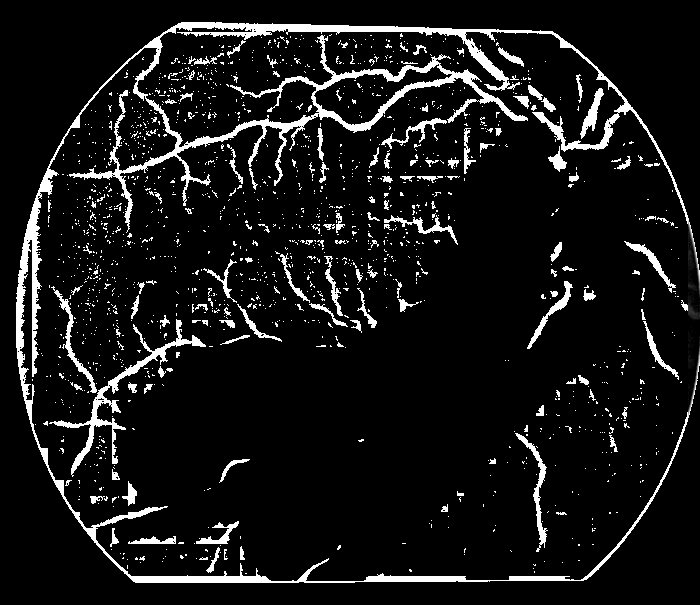
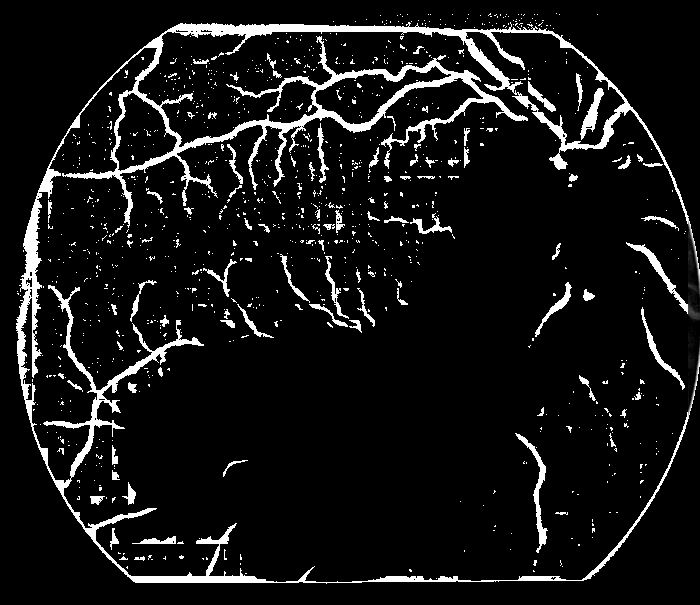
Finally version

diff --git a/image_processing.py b/image_processing.py
@@ -1,39 +1,21 @@
 import cv2
 import numpy as np
-import sklearn as sk
 
 
 def image_processing(image):
     img_gray = cv2.cvtColor(image, cv2.COLOR_BGR2GRAY)
-    img = np.copy(image[:, :, 1])
-    # image = cv2.Laplacian(image, cv2.CV_64F)
-    # image = cv2.Sobel(image, cv2.CV_64F, 1, 1, ksize=5)
-    # img = cv2.normalize(image, image, alpha=0, beta=255, norm_type=cv2.NORM_MINMAX)
-    '''for i in range(len(image)):
-        for j in range(len(image[0])):
-            if image[i][j] < (np.max(image) - np.min(image)):
-                image[i][j] = 0
-            else:
-                image[i][j] = 255
-    print(image)'''
     for i in range(len(img_gray)):
         for j in range(len(img_gray[0])):
             if img_gray[i][j] < 35:
                 img_gray[i][j] = 255
 
-    # img = cv2.bitwise_not(img)
-    # image = cv2.Laplacian(image, cv2.CV_64F)
-
     MIN = 48
     MAX = 140
-
-    # img_gray = (img_gray > 100) * 255
 
     norm = ((img_gray - MIN) / (MAX - MIN)) * 255.0
     norm[norm > 255] = 255.0
     norm[norm < 0] = 0.0
 
-    ''''''
     r = 16
     for i in range(0, len(norm) - r, r):
         for j in range(0, len(norm[i]) - r, r):
@@ -41,25 +23,8 @@ def image_processing(image):
             mean = np.median(matrix) * 0.87
             matrix[matrix < mean] = 0.0
             matrix[matrix > mean] = 255.0
-    ''''''
-
-    # norm[norm > 100] = 0.0
-    # norm[norm > 0] = 255.0
 
     norm = np.abs(norm - 255)
-
-    # norm = cv2.Sobel(norm, cv2.CV_64F, 1, 1, ksize=5)
-
-    kernel = np.ones((2, 2), np.uint8)
-    # norm = cv2.dilate(norm, kernel, iterations=10)
-    # norm = cv2.erode(norm, kernel, iterations=1)
-    # kernel = np.ones((5, 5), np.uint8)
-    # norm = cv2.dilate(norm, kernel, iterations=1)
-
-    # norm = cv2.erode(norm, kernel, iterations=15)
-    # norm = cv2.erode(norm, kernel, iterations=3)
-    # norm = cv2.dilate(norm, kernel, iterations=5)
-    # norm = cv2.erode(norm, kernel, iterations=5)
 
     marker = np.copy(image)
     marker[norm == 255] = 0
